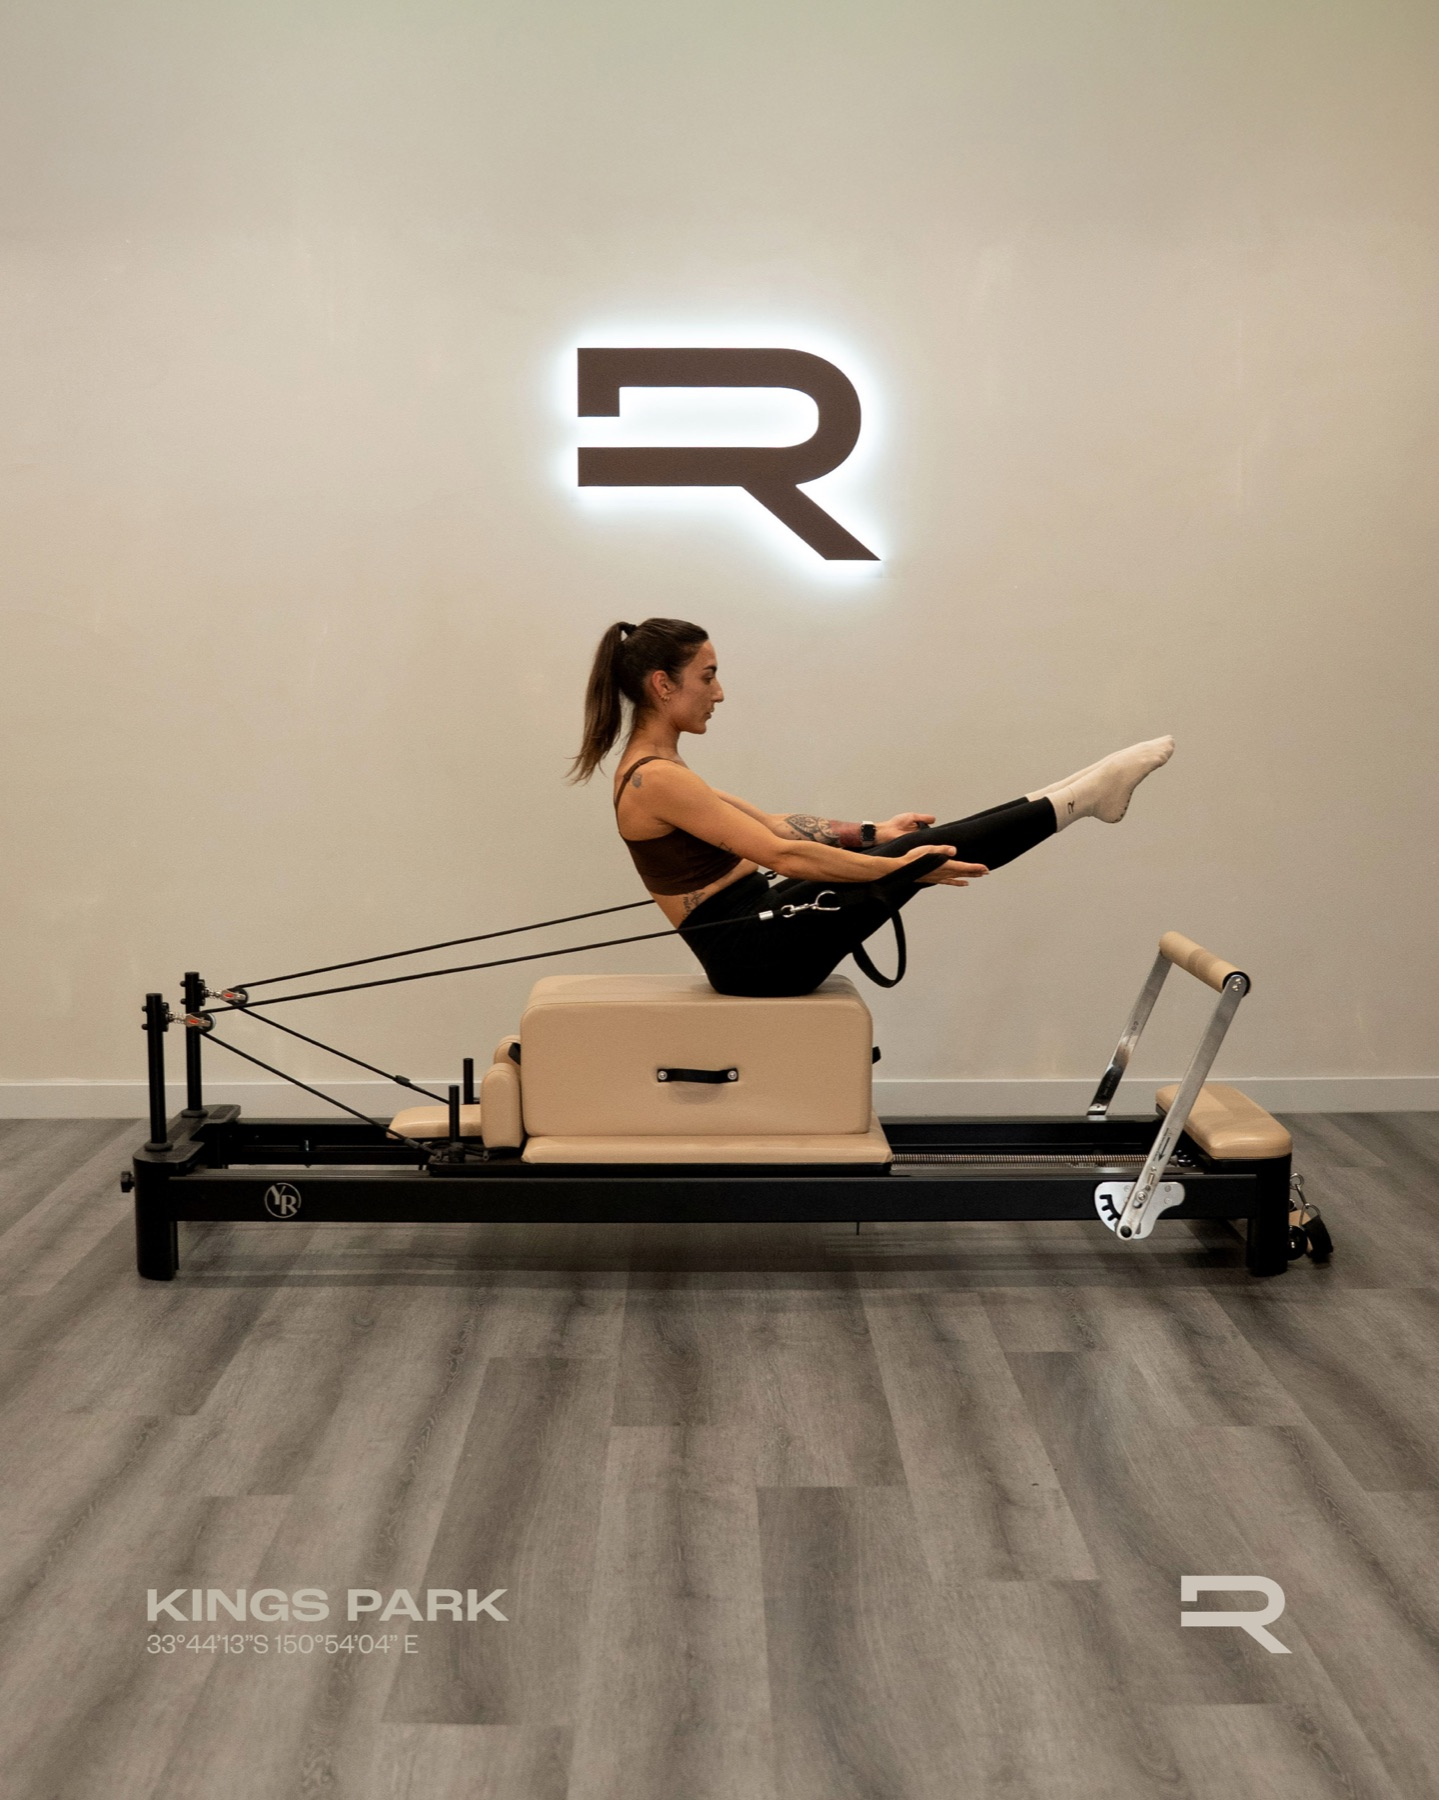
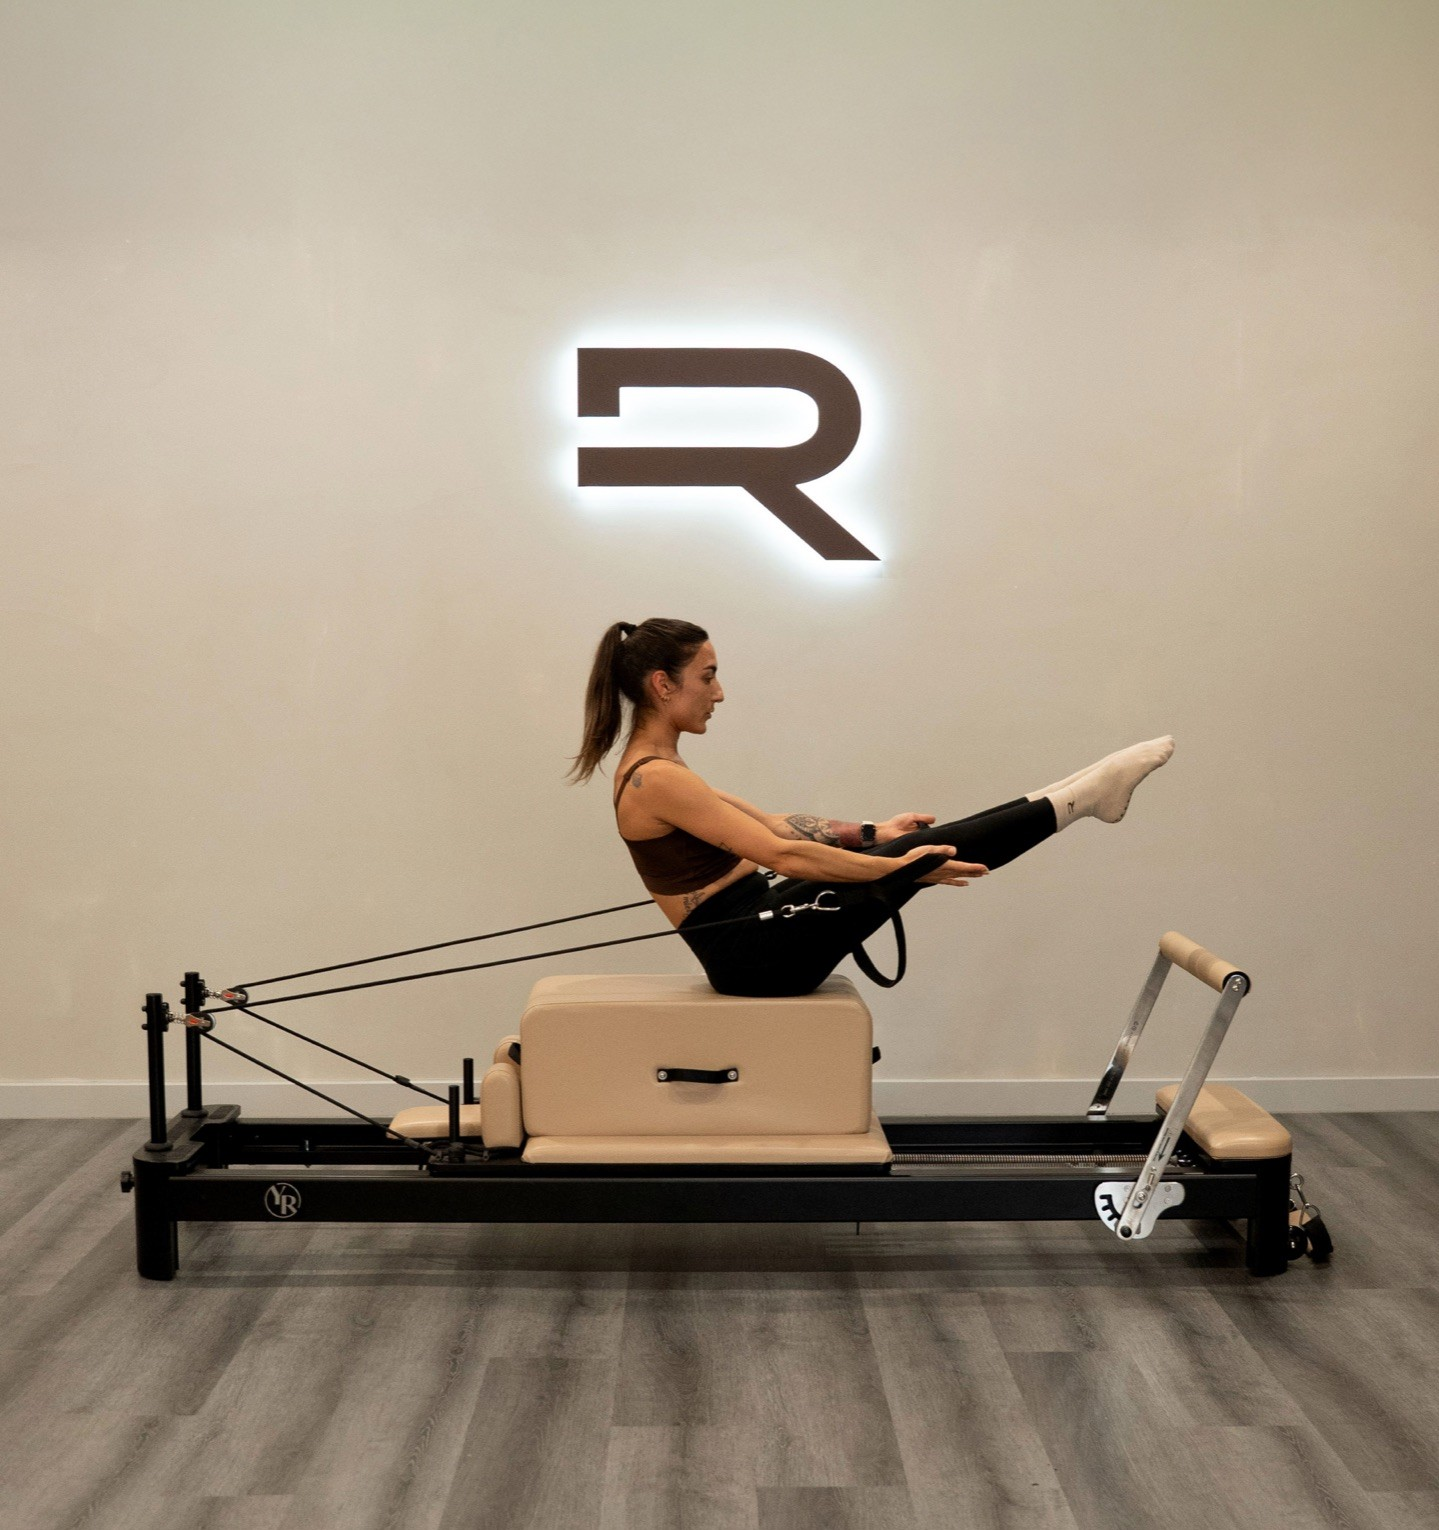
Remove location text from photos; fix one-room wording
- Crop the bottom strip (studio name, coordinates and R mark baked into
  the shoot exports) off all nine photos. Inpainting left visible
  smears, so a clean crop was used instead; subjects are unaffected.
- Home "The studio" heading: each studio is one room, so "Two rooms"
  becomes "One room per studio"; studio section aside now says
  "Two studios".

Claude-Session: https://claude.ai/code/session_0114xewnrKXvPCXMfPfFnb1B

diff --git a/components/sections/value-prop.tsx b/components/sections/value-prop.tsx
@@ -19,7 +19,7 @@ export function ValueProp() {
         />
         <div>
           <p className="eyebrow">The studio</p>
-          <h2 className="mt-4 text-balance text-4xl md:text-5xl">Not a chain. Two rooms, done properly.</h2>
+          <h2 className="mt-4 text-balance text-4xl md:text-5xl">Not a chain. One room per studio, done properly.</h2>
           <ul className="mt-8 divide-y divide-brown/15 border-y border-brown/15">
             {VALUES.map((v) => (
               <li key={v.title} className="flex flex-col gap-1 py-4 sm:flex-row sm:items-baseline sm:gap-6">

diff --git a/components/sections/studio-locations.tsx b/components/sections/studio-locations.tsx
@@ -19,7 +19,7 @@ export function StudioLocations() {
           title="Find your home in the south-west."
           aside={
             <p className="text-sm leading-relaxed text-cream/70">
-              Two rooms, same standard. Pick the one closer to home.
+              Two studios, same standard. Pick the one closer to home.
             </p>
           }
         />
